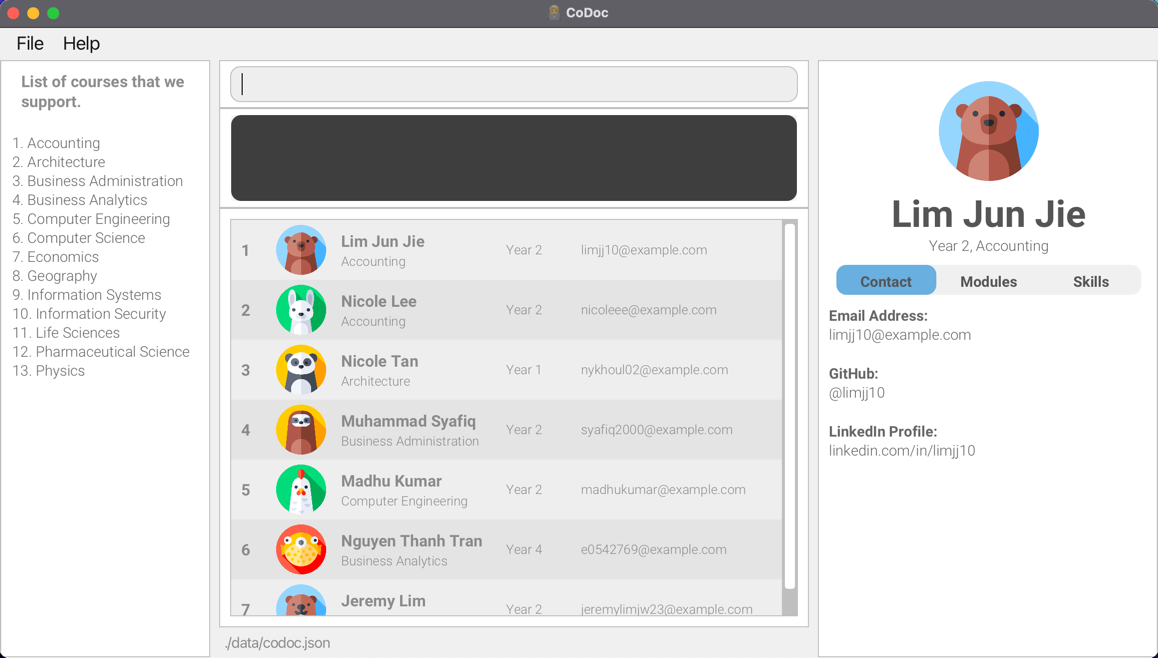
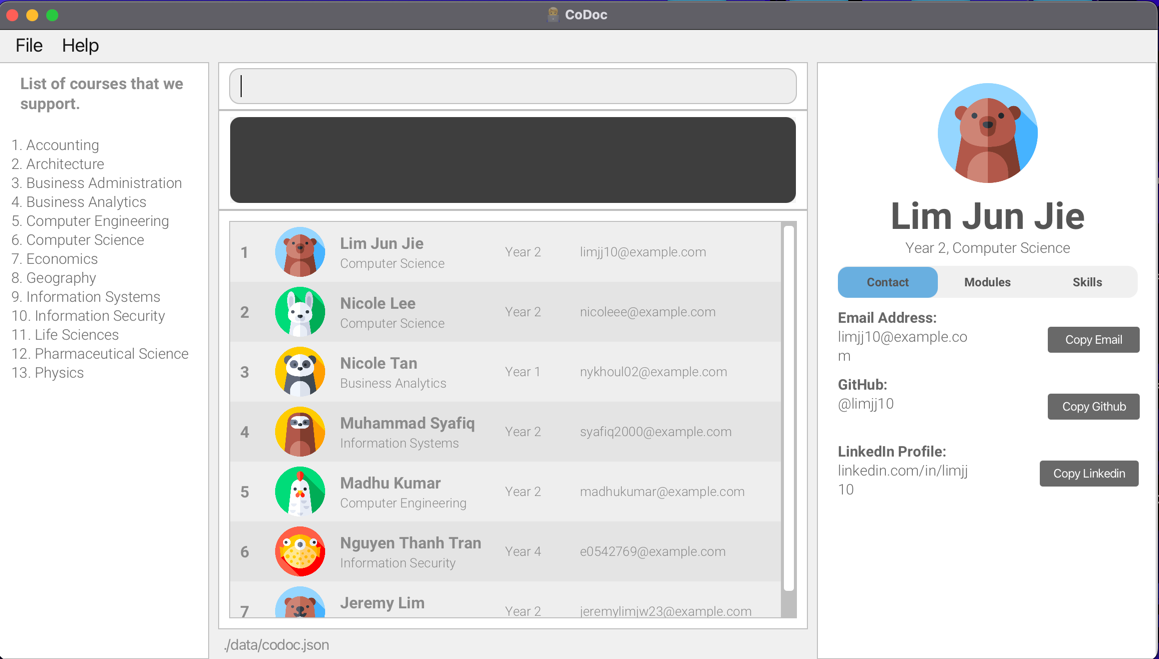
Update sample data courses

diff --git a/src/main/java/codoc/model/util/SampleDataUtil.java b/src/main/java/codoc/model/util/SampleDataUtil.java
@@ -26,7 +26,7 @@ public class SampleDataUtil {
             new Person(
                     new ProfilePicture("src/main/resources/images/avataricons/001-bear.png"),
                     new Name("Lim Jun Jie"),
-                    new Course("1"),
+                    new Course("6"),
                     new Year("2"),
                     new Github("limjj10"),
                     new Email("limjj10@example.com"),
@@ -41,7 +41,7 @@ public class SampleDataUtil {
             new Person(
                     new ProfilePicture("src/main/resources/images/avataricons/002-rabbit.png"),
                     new Name("Nicole Lee"),
-                    new Course("1"),
+                    new Course("6"),
                     new Year("2"),
                     new Github("nicoleee"),
                     new Email("nicoleee@example.com"),
@@ -56,7 +56,7 @@ public class SampleDataUtil {
             new Person(
                     new ProfilePicture("src/main/resources/images/avataricons/003-panda.png"),
                     new Name("Nicole Tan"),
-                    new Course("2"),
+                    new Course("4"),
                     new Year("1"),
                     new Github("nykhoul"),
                     new Email("nykhoul02@example.com"),
@@ -69,7 +69,7 @@ public class SampleDataUtil {
             new Person(
                     new ProfilePicture("src/main/resources/images/avataricons/004-sloth.png"),
                     new Name("Muhammad Syafiq"),
-                    new Course("3"),
+                    new Course("9"),
                     new Year("2"),
                     new Github("sp33dysyafiq"),
                     new Email("syafiq2000@example.com"),
@@ -100,7 +100,7 @@ public class SampleDataUtil {
             new Person(
                     new ProfilePicture("src/main/resources/images/avataricons/006-puffer-fish.png"),
                     new Name("Nguyen Thanh Tran"),
-                    new Course("4"),
+                    new Course("10"),
                     new Year("4"),
                     new Github("ilovebanhmi"),
                     new Email("e0542769@example.com"),
@@ -123,7 +123,7 @@ public class SampleDataUtil {
             new Person(
                     new ProfilePicture("src/main/resources/images/avataricons/007-beaver.png"),
                     new Name("Jeremy Lim"),
-                    new Course("1"),
+                    new Course("6"),
                     new Year("2"),
                     new Github("jljw23"),
                     new Email("jeremylimjw23@example.com"),
